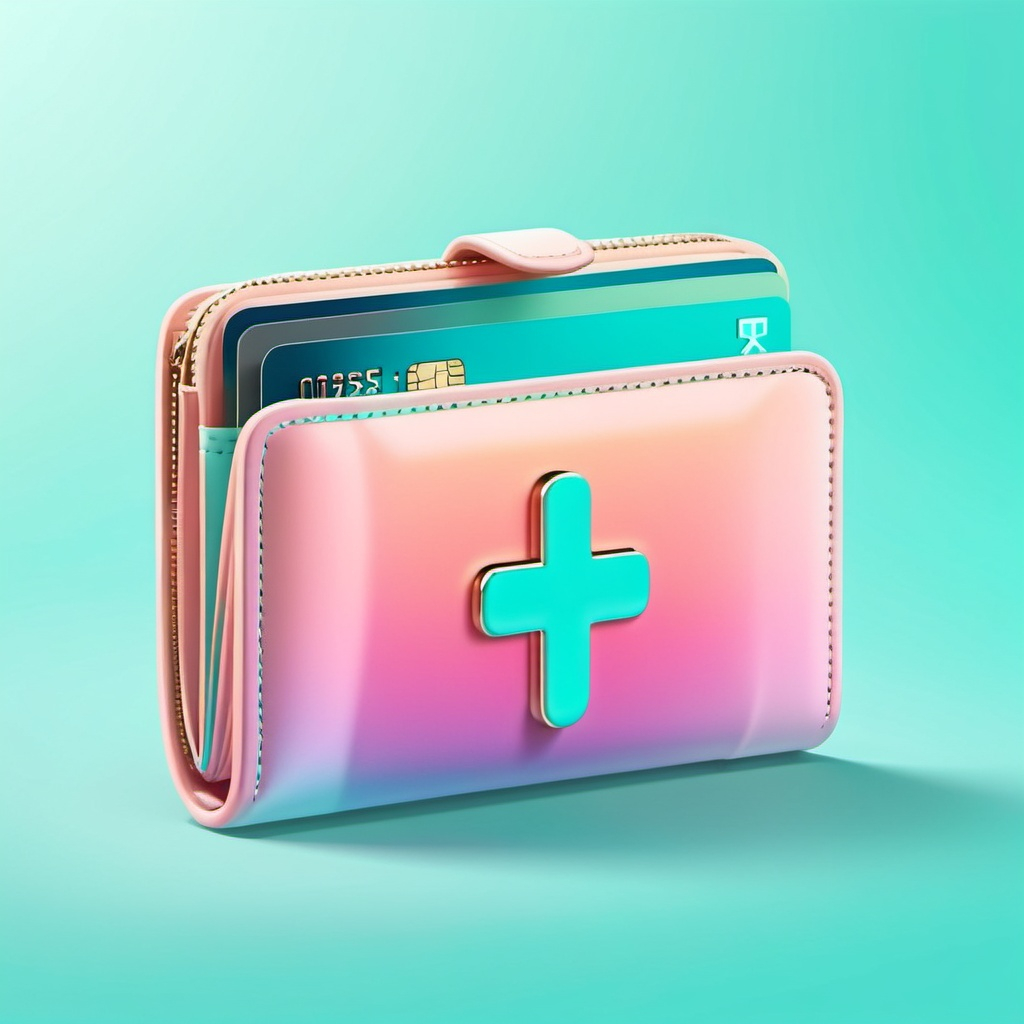
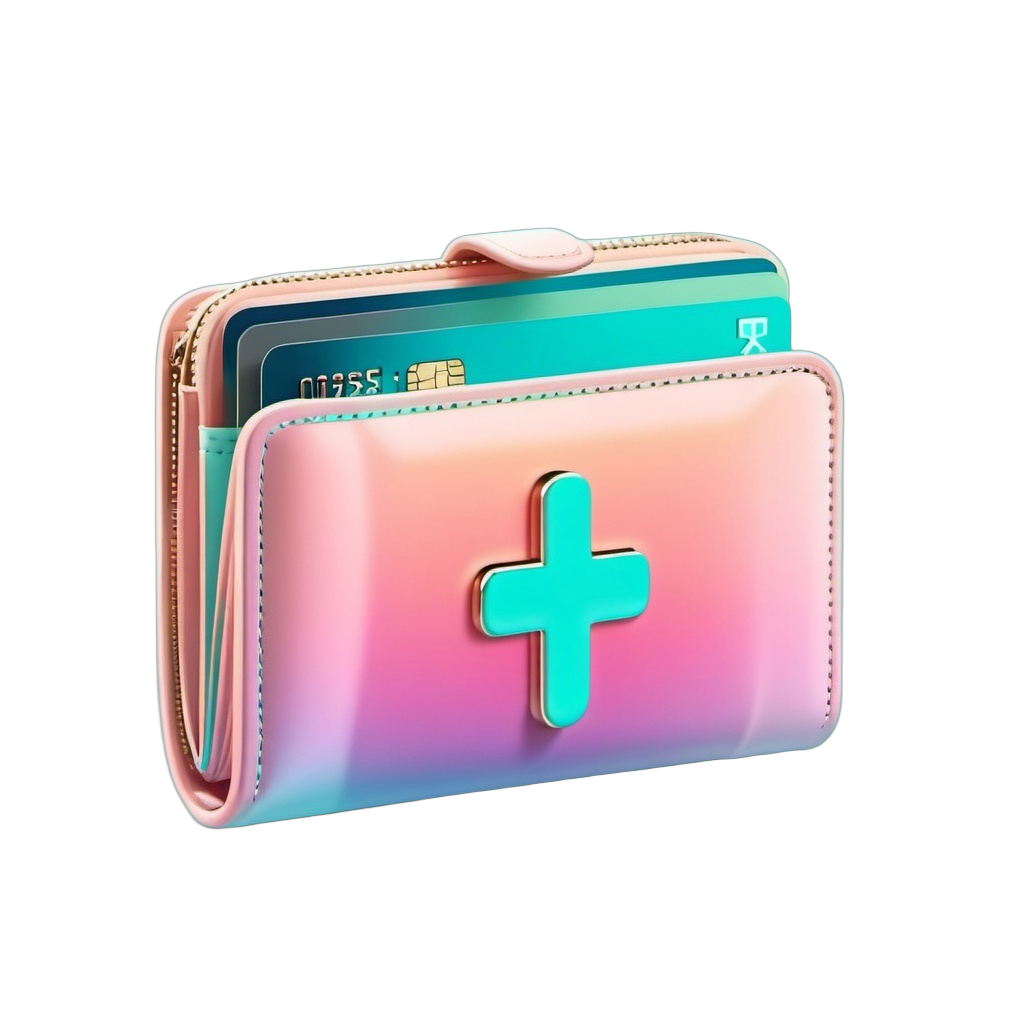
style: Adjust image sizes and remove opacity wrappers
Images now have transparent backgrounds, so:
- Remove Opacity wrappers (no longer needed)
- Increase image sizes for better visibility:
  - Quick actions: 52→58px
  - Worker availability: 52→56px
  - Stats cards: 36→42px
  - Empty states: 120-140→150px
  - Equipment icon: 40→44px

diff --git a/lib/features/snow_worker/presentation/pages/worker_home_tab.dart b/lib/features/snow_worker/presentation/pages/worker_home_tab.dart
@@ -693,15 +693,12 @@ class _WorkerHomeTabState extends State<WorkerHomeTab>
                             ),
                           ),
                         )
-                      : Opacity(
-                          opacity: 0.9,
-                          child: AppIllustration(
-                            type: isAvailable
-                                ? IllustrationType.workerAvailable
-                                : IllustrationType.workerOffline,
-                            width: 52,
-                            height: 52,
-                          ),
+                      : AppIllustration(
+                          type: isAvailable
+                              ? IllustrationType.workerAvailable
+                              : IllustrationType.workerOffline,
+                          width: 56,
+                          height: 56,
                         ),
                 ),
                 const SizedBox(width: 14),
@@ -844,13 +841,10 @@ class _WorkerHomeTabState extends State<WorkerHomeTab>
       child: Column(
         children: [
           if (illustrationType != null)
-            Opacity(
-              opacity: 0.9,
-              child: AppIllustration(
-                type: illustrationType,
-                width: 36,
-                height: 36,
-              ),
+            AppIllustration(
+              type: illustrationType,
+              width: 42,
+              height: 42,
             )
           else
             Icon(icon, color: iconColor, size: 22),
@@ -1205,13 +1199,10 @@ class _WorkerHomeTabState extends State<WorkerHomeTab>
           ),
           child: Column(
             children: [
-              Opacity(
-                opacity: 0.85,
-                child: AppIllustration(
-                  type: IllustrationType.emptyWorkerJobs,
-                  width: 120,
-                  height: 120,
-                ),
+              AppIllustration(
+                type: IllustrationType.emptyWorkerJobs,
+                width: 140,
+                height: 140,
               ),
               const SizedBox(height: 16),
               Text(

diff --git a/lib/features/payment/presentation/screens/payments_list_screen.dart b/lib/features/payment/presentation/screens/payments_list_screen.dart
@@ -387,13 +387,10 @@ class _PaymentsListScreenContentState extends State<PaymentsListScreenContent>
       ),
       child: Column(
         children: [
-          Opacity(
-            opacity: 0.85,
-            child: AppIllustration(
-              type: IllustrationType.emptyPaymentMethods,
-              width: 100,
-              height: 100,
-            ),
+          AppIllustration(
+            type: IllustrationType.emptyPaymentMethods,
+            width: 110,
+            height: 110,
           ),
           const SizedBox(height: 12),
           Text(
@@ -602,13 +599,10 @@ class _PaymentsListScreenContentState extends State<PaymentsListScreenContent>
       child: Column(
         mainAxisAlignment: MainAxisAlignment.center,
         children: [
-          Opacity(
-            opacity: 0.85,
-            child: AppIllustration(
-              type: IllustrationType.emptyPaymentHistory,
-              width: 140,
-              height: 140,
-            ),
+          AppIllustration(
+            type: IllustrationType.emptyPaymentHistory,
+            width: 150,
+            height: 150,
           ),
           const SizedBox(height: 20),
           Text(

diff --git a/lib/core/widgets/app_illustration.dart b/lib/core/widgets/app_illustration.dart
@@ -316,7 +316,7 @@ class EmptyStateWidget extends StatelessWidget {
     this.subtitle,
     this.buttonText,
     this.onButtonPressed,
-    this.illustrationSize = 140,
+    this.illustrationSize = 150,
   });
 
   @override
@@ -327,13 +327,10 @@ class EmptyStateWidget extends StatelessWidget {
         child: Column(
           mainAxisAlignment: MainAxisAlignment.center,
           children: [
-            Opacity(
-              opacity: 0.85,
-              child: AppIllustration(
-                type: illustrationType,
-                width: illustrationSize,
-                height: illustrationSize,
-              ),
+            AppIllustration(
+              type: illustrationType,
+              width: illustrationSize,
+              height: illustrationSize,
             ),
             const SizedBox(height: 20),
             Text(

diff --git a/lib/features/snow_worker/presentation/pages/worker_settings_page.dart b/lib/features/snow_worker/presentation/pages/worker_settings_page.dart
@@ -312,13 +312,10 @@ class _WorkerSettingsViewState extends State<_WorkerSettingsView> {
         children: [
           Row(
             children: [
-              Opacity(
-                opacity: 0.85,
-                child: AppIllustration(
-                  type: IllustrationType.workerEquipment,
-                  width: 40,
-                  height: 40,
-                ),
+              AppIllustration(
+                type: IllustrationType.workerEquipment,
+                width: 44,
+                height: 44,
               ),
               const SizedBox(width: 12),
               Text(l10n.worker_myEquipment, style: AppTheme.headlineSmall),

diff --git a/lib/features/activities/presentation/screens/activities_screen.dart b/lib/features/activities/presentation/screens/activities_screen.dart
@@ -143,13 +143,10 @@ class _ActivitiesScreenContentState extends State<_ActivitiesScreenContent>
         child: Column(
           mainAxisAlignment: MainAxisAlignment.center,
           children: [
-            Opacity(
-              opacity: 0.85,
-              child: AppIllustration(
-                type: IllustrationType.emptyActivities,
-                width: 140,
-                height: 140,
-              ),
+            AppIllustration(
+              type: IllustrationType.emptyActivities,
+              width: 150,
+              height: 150,
             ),
             const SizedBox(height: 20),
             Text(

diff --git a/lib/features/disputes/presentation/pages/my_disputes_page.dart b/lib/features/disputes/presentation/pages/my_disputes_page.dart
@@ -446,13 +446,10 @@ class _MyDisputesPageState extends State<MyDisputesPage> {
         child: Column(
           mainAxisAlignment: MainAxisAlignment.center,
           children: [
-            Opacity(
-              opacity: 0.85,
-              child: AppIllustration(
-                type: IllustrationType.emptyDisputes,
-                width: 140,
-                height: 140,
-              ),
+            AppIllustration(
+              type: IllustrationType.emptyDisputes,
+              width: 150,
+              height: 150,
             ),
             const SizedBox(height: 24),
             Text(

diff --git a/lib/features/snow_worker/presentation/pages/worker_history_page.dart b/lib/features/snow_worker/presentation/pages/worker_history_page.dart
@@ -396,13 +396,10 @@ class _WorkerHistoryViewState extends State<_WorkerHistoryView>
       child: Column(
         mainAxisAlignment: MainAxisAlignment.center,
         children: [
-          Opacity(
-            opacity: 0.85,
-            child: AppIllustration(
-              type: IllustrationType.emptyWorkerHistory,
-              width: 130,
-              height: 130,
-            ),
+          AppIllustration(
+            type: IllustrationType.emptyWorkerHistory,
+            width: 150,
+            height: 150,
           ),
           const SizedBox(height: 20),
           Text(

diff --git a/lib/features/client/screens/client_home_screen.dart b/lib/features/client/screens/client_home_screen.dart
@@ -662,10 +662,10 @@ class _ClientHomeScreenState extends State<ClientHomeScreen> {
           children: [
             if (imagePath != null)
               Opacity(
-                opacity: 0.85,
+                opacity: 0.95,
                 child: SizedBox(
-                  width: 52,
-                  height: 52,
+                  width: 58,
+                  height: 58,
                   child: Image.asset(
                     imagePath,
                     fit: BoxFit.contain,
